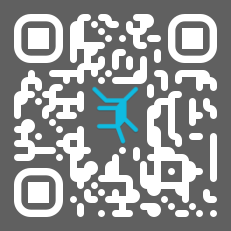
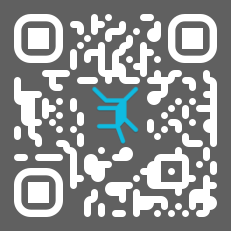
[update] Update qr code and link

diff --git a/README.md b/README.md
@@ -12,7 +12,7 @@
 
 ### 🕸 Basic Graph Theory. Methods of Graph Representation in Python
 
-&nbsp;[![nbviewer](https://img.shields.io/badge/nbviewer-graphs-e87133)](https://bit.ly/41F6GYG)
+&nbsp;[![nbviewer](https://img.shields.io/badge/nbviewer-graphs-e87133)](https://bit.ly/3S59JX6)
 <br></br>
 ***
-. . . 
+. . .
